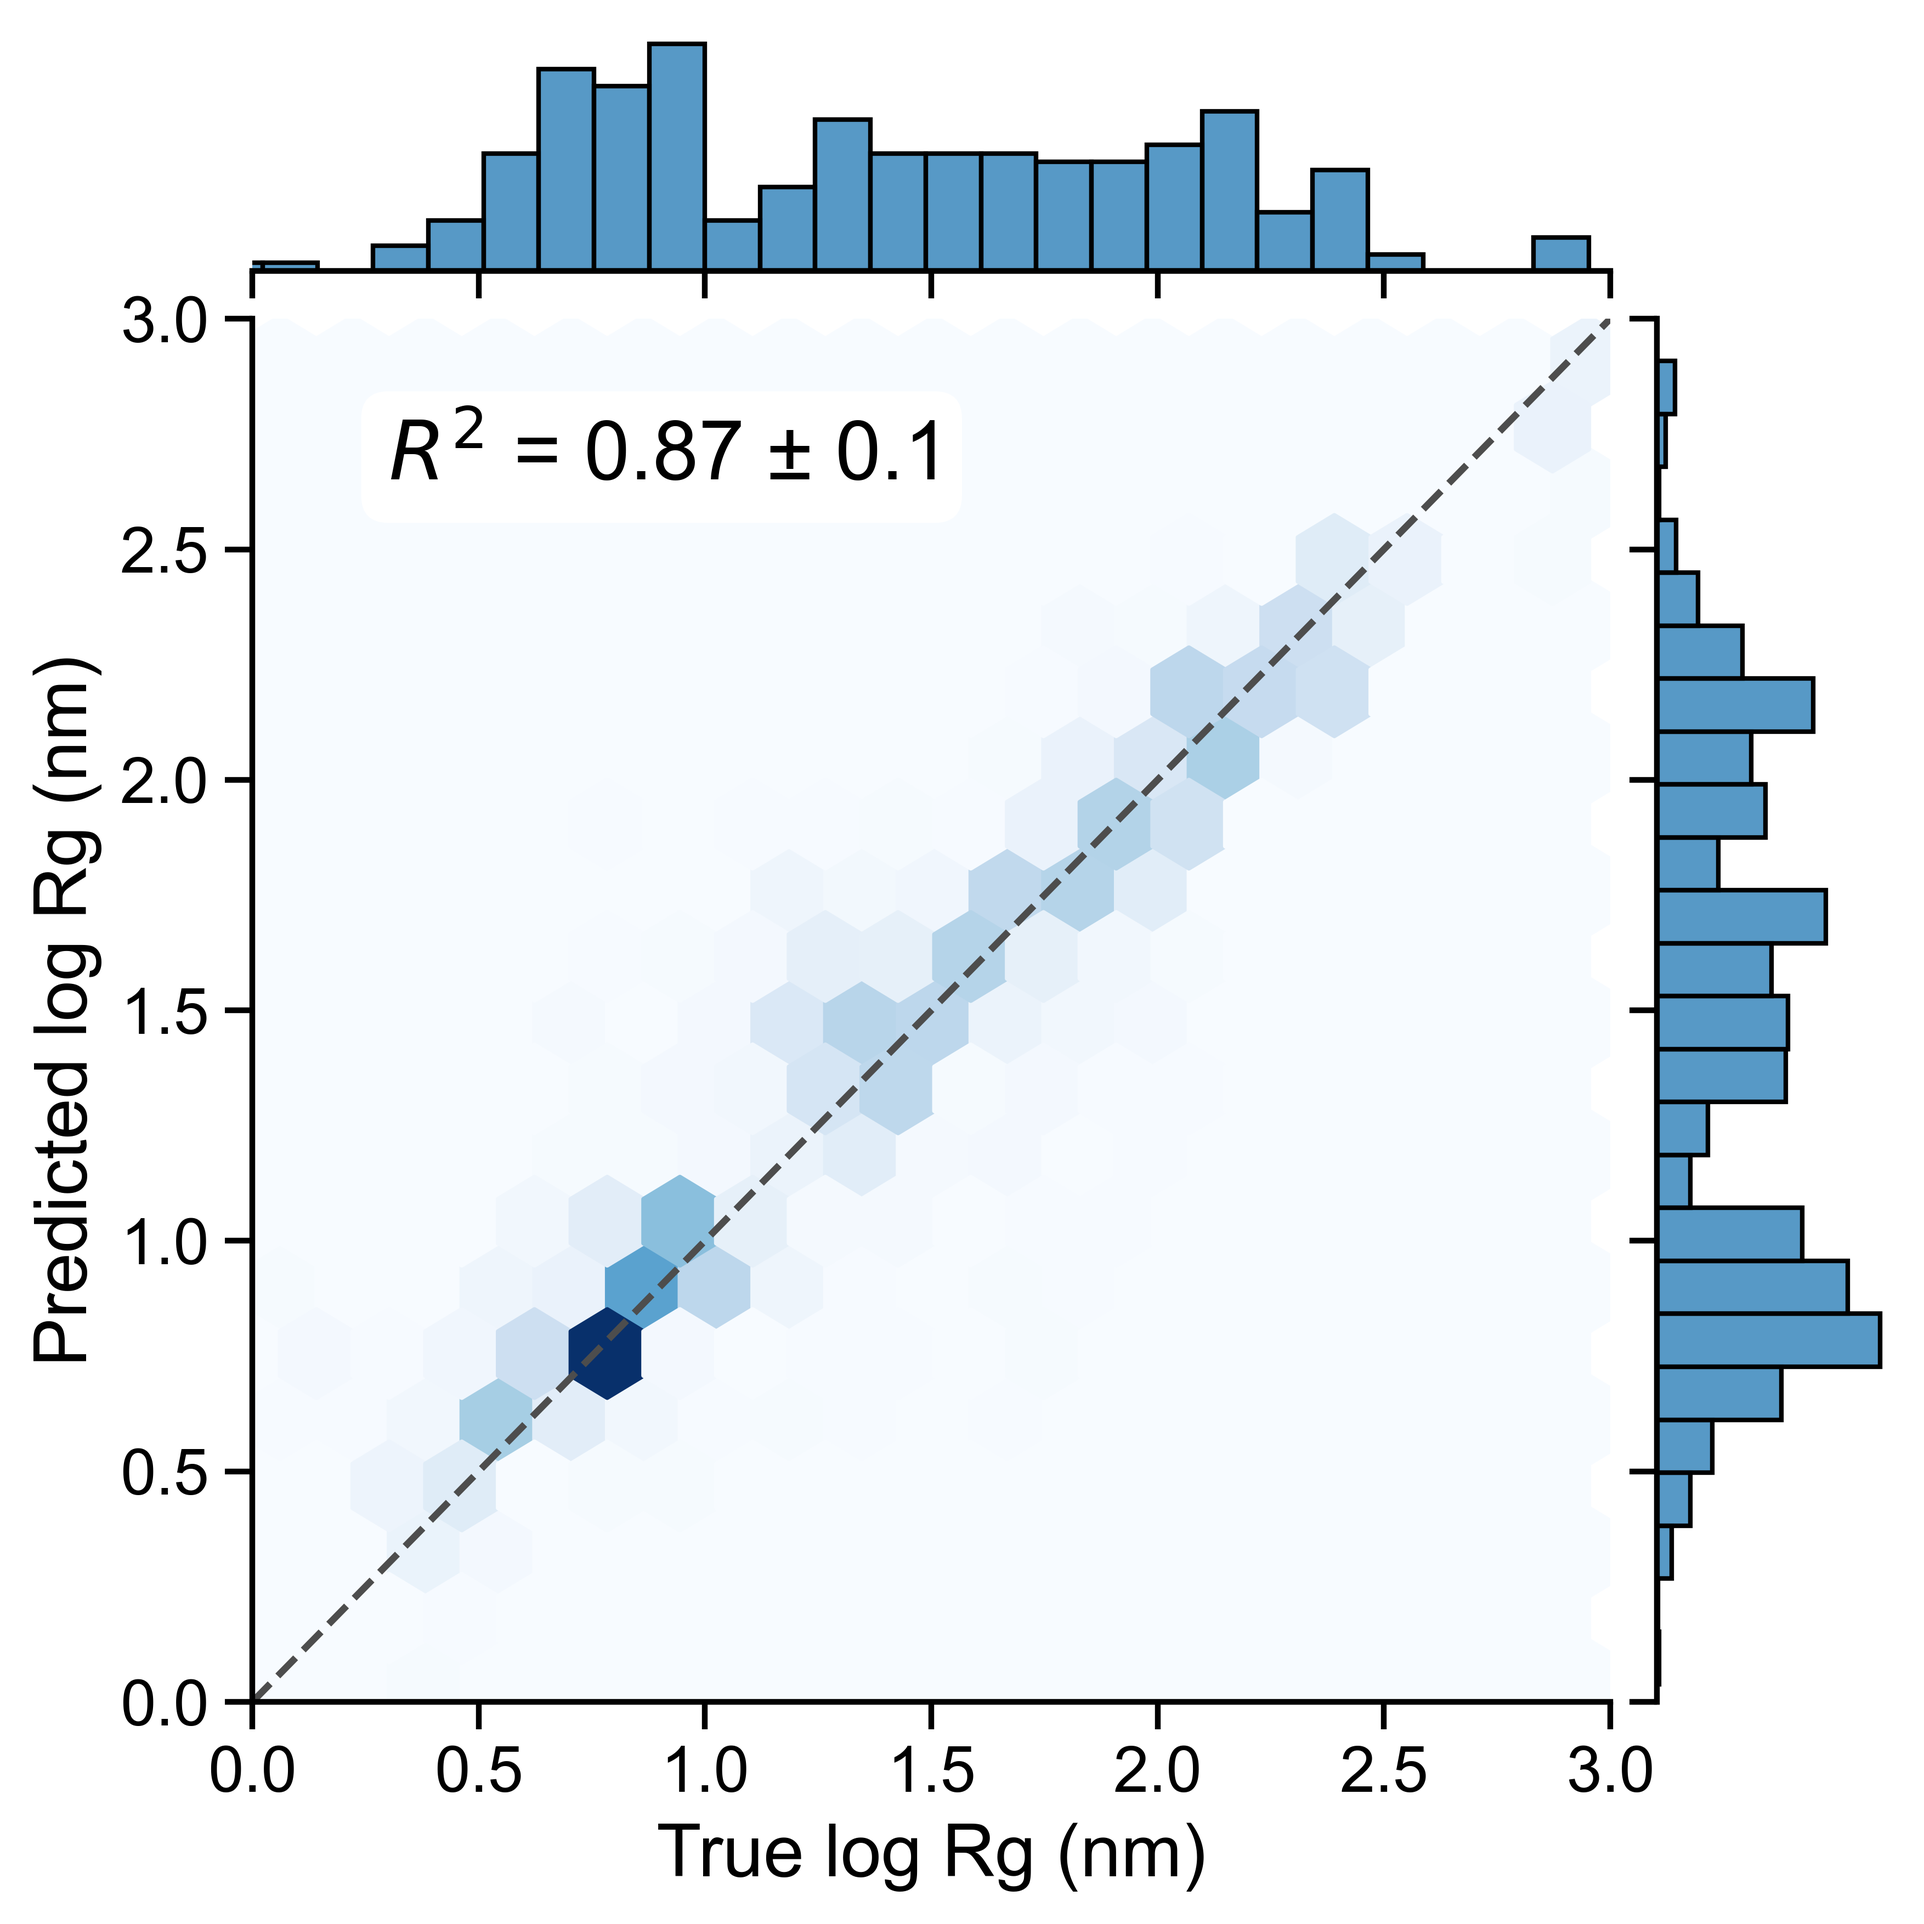
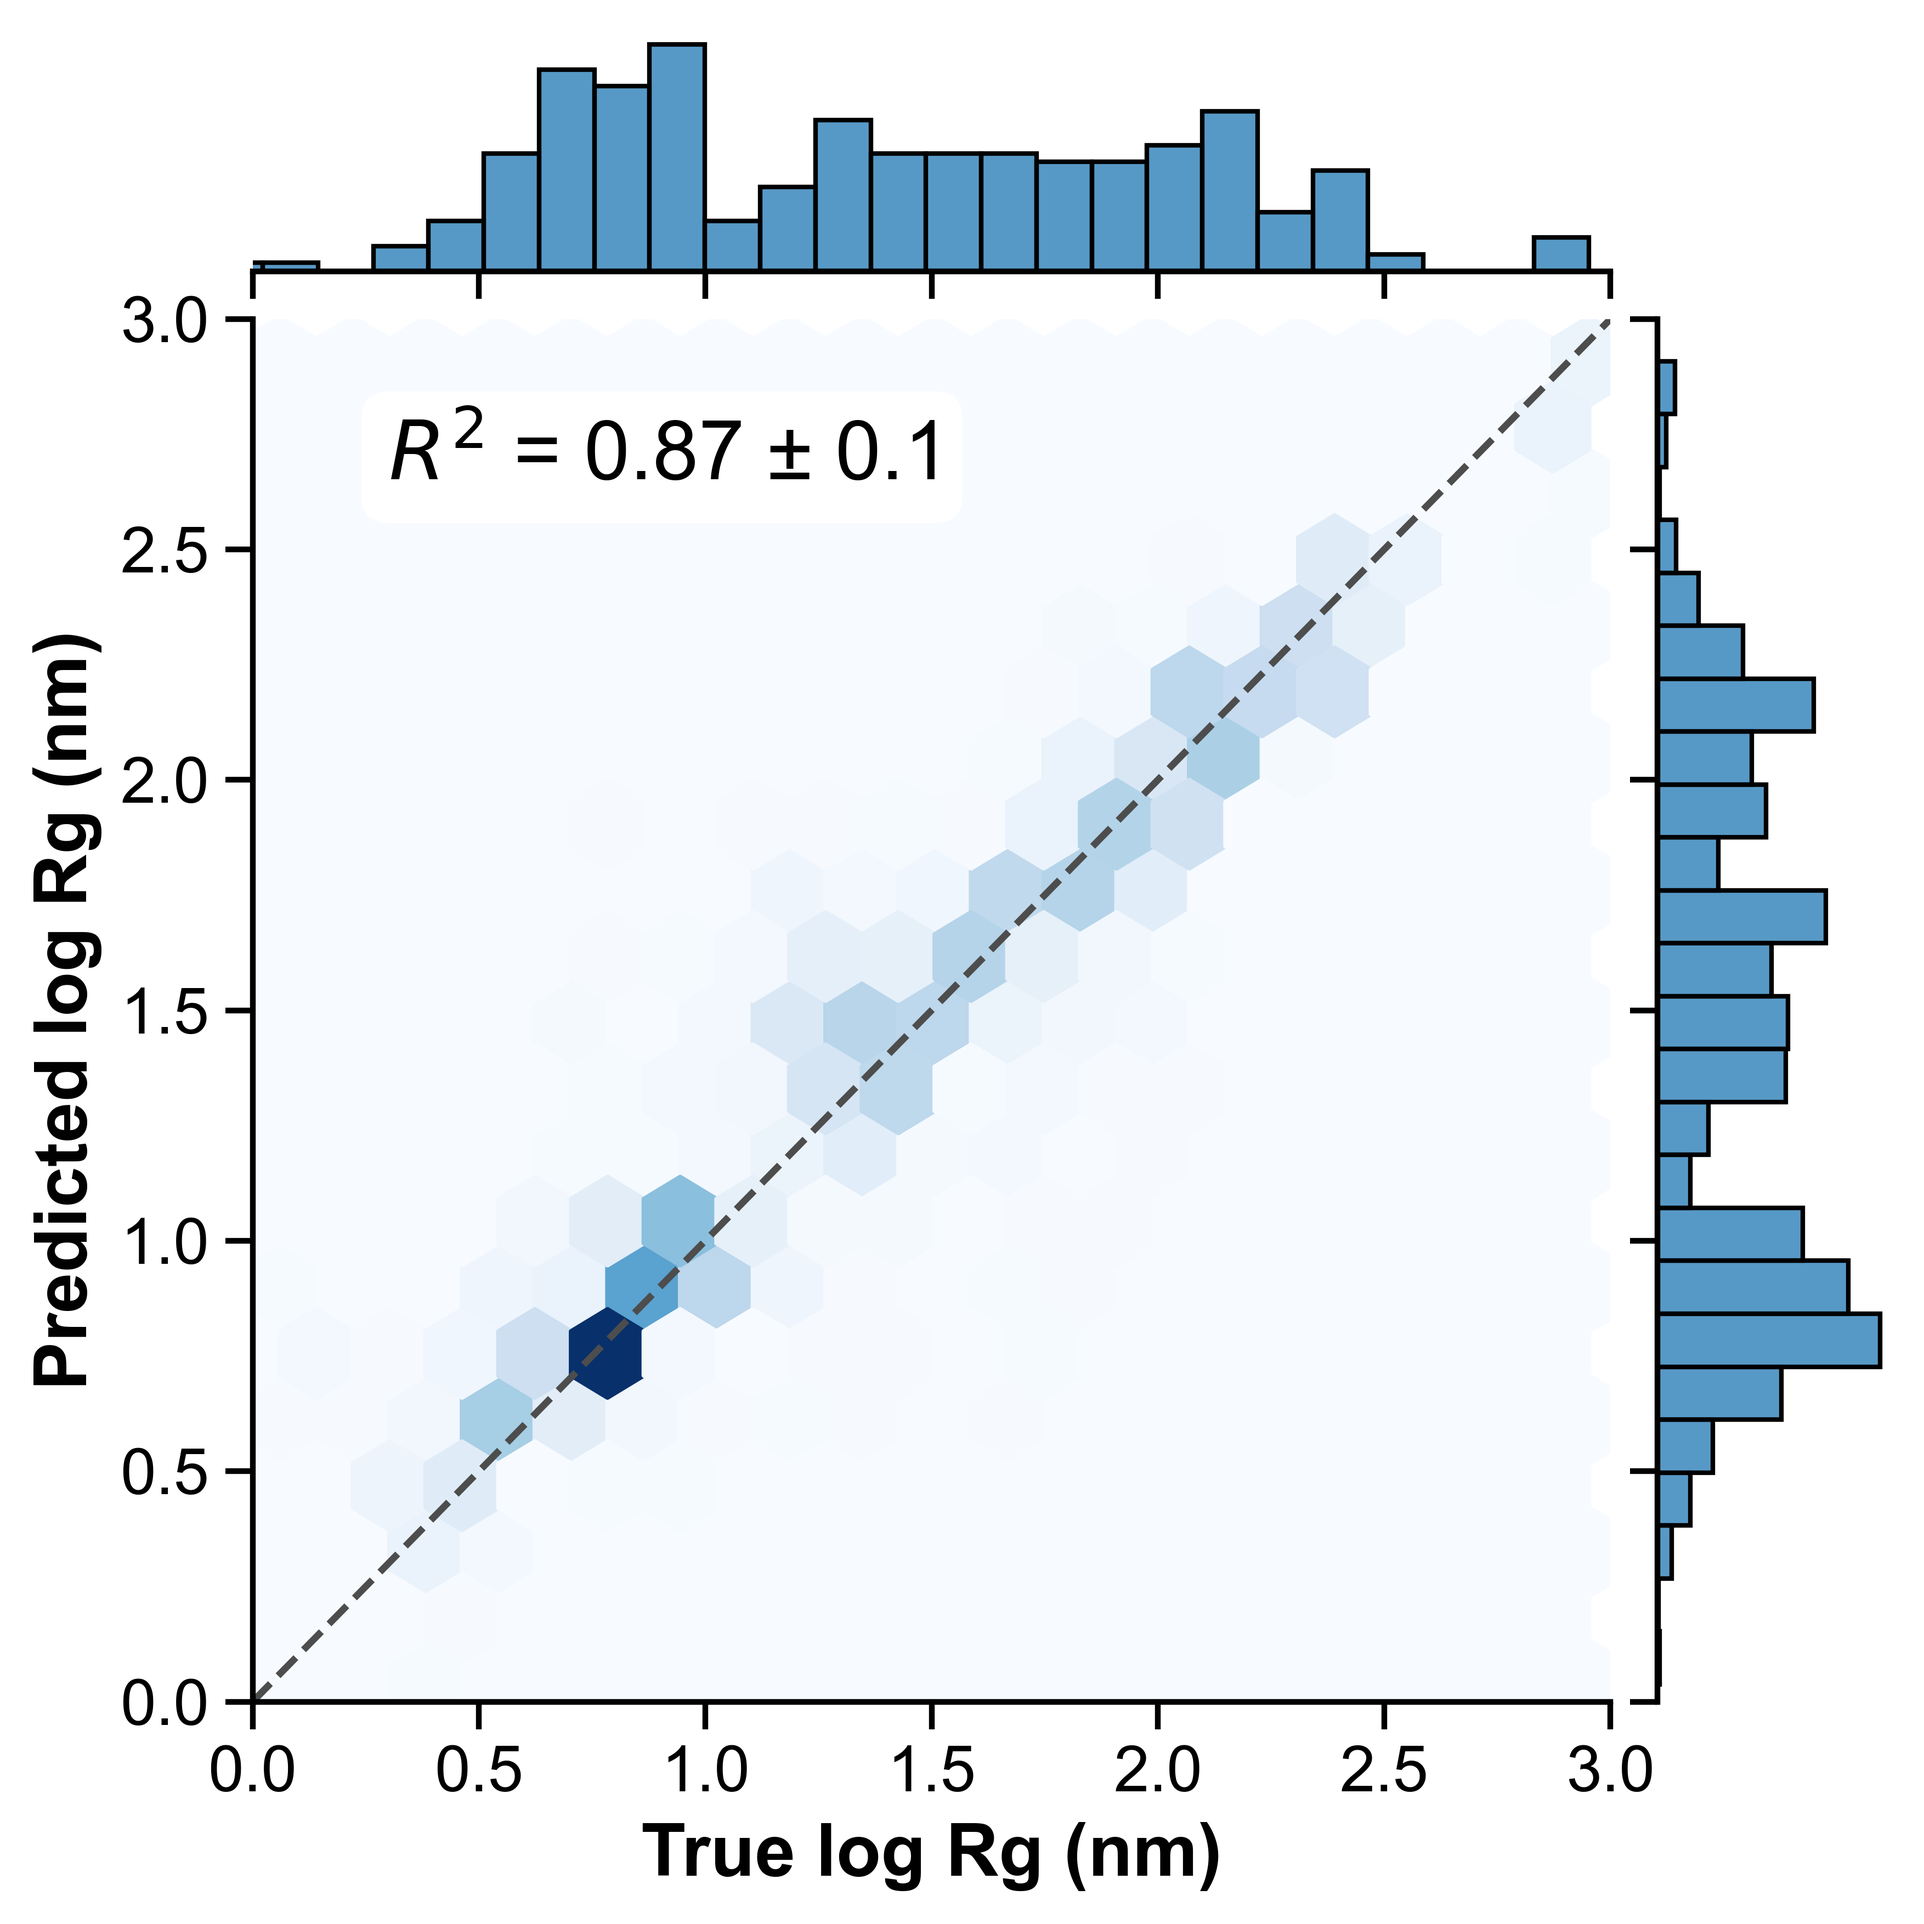
updated

Changed region(s): [[0.0, 0.3107, 0.0621, 0.7147], [0.3418, 0.9322, 0.6525, 0.9943]]

diff --git a/code_/visualization/visualize_predictions_truth.py b/code_/visualization/visualize_predictions_truth.py
@@ -193,8 +193,11 @@ def draw_single_parity_plot(
                         )
 
     # Set plot limits to (0, 15) for both axes
-    g.set_axis_labels(f"log True {x_y_target_name}" if log_scale else f"True {x_y_target_name}",
-                       f"log Predicted {x_y_target_name}" if log_scale else f"Predicted {x_y_target_name}")
+    xlabel = f"log True {x_y_target_name}" if log_scale else f"True {x_y_target_name}"
+    ylabel = f"log Predicted {x_y_target_name}" if log_scale else f"Predicted {x_y_target_name}"
+
+    g.ax_joint.set_xlabel(xlabel, fontdict={'fontsize': 16, 'fontweight': 'bold'})
+    g.ax_joint.set_ylabel(ylabel, fontdict={'fontsize': 16, 'fontweight': 'bold'})
     g.ax_joint.set_xlim(ax_min, ax_max)
     g.ax_joint.set_ylim(ax_min, ax_max)
     # plt.tight_layout()
